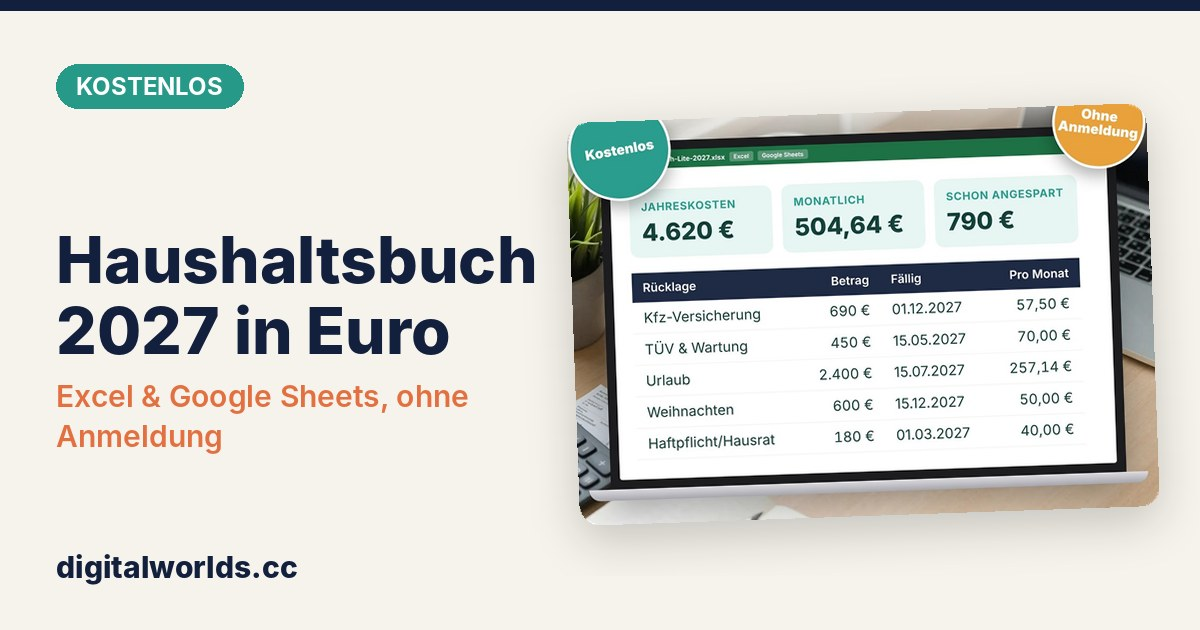
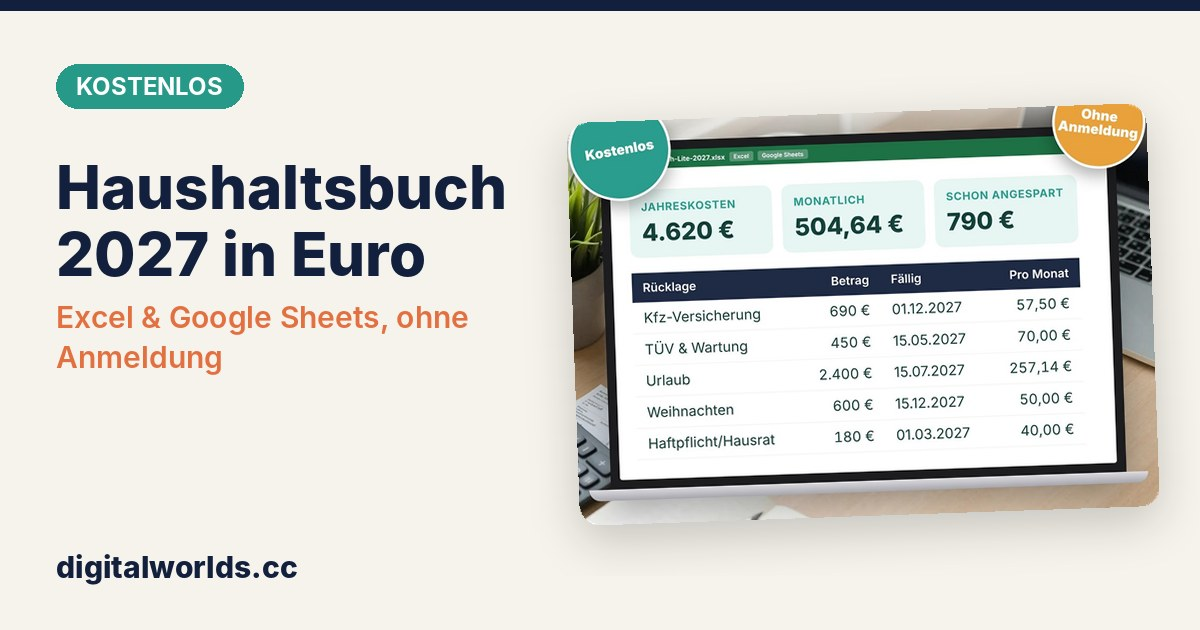
Fix headline overflow in cards (pl-nierej, de-haushaltsbuch) and their og images
Claude-Session: https://claude.ai/code/session_0147eXcygKDFUiwgjZKqadNE

Changed region(s): [[0.0308, 0.4825, 0.4008, 0.7238], [0.0308, 0.3619, 0.4625, 0.4524], [0.0308, 0.2714, 0.4317, 0.3317]]

diff --git a/.social/make_cards.py b/.social/make_cards.py
@@ -109,7 +109,7 @@ def card(k):
     size=64
     while True:
         hf=F(XB,size); lines=wrap(d,head,hf,470)
-        if len(lines)<=3 or size<=48: break
+        if (len(lines)<=3 and max(d.textlength(l,font=hf) for l in lines)<=470) or size<=36: break
         size-=4
     yy=150
     for l in lines: d.text((56,yy),l,font=hf,fill=NAVY); yy+=int(size*1.12)
